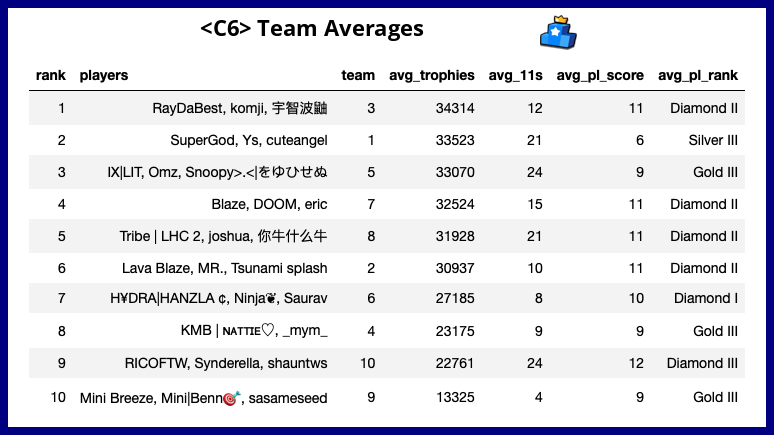
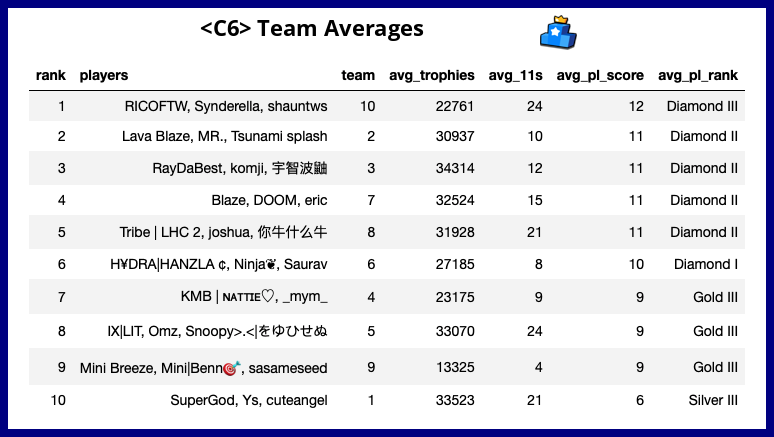
order by pl rank 2

diff --git a/aura.py b/aura.py
@@ -175,7 +175,7 @@ select team,
        group_concat(player) as players
        from df2
        group by team
-       order by avg_trophies desc
+       order by avg_pl_score desc
 """
 team2 = sqldf(team2_q, globals()).fillna('')
 team2['players'] = team2['players'].map(lambda x: x.replace(',', ', '))
